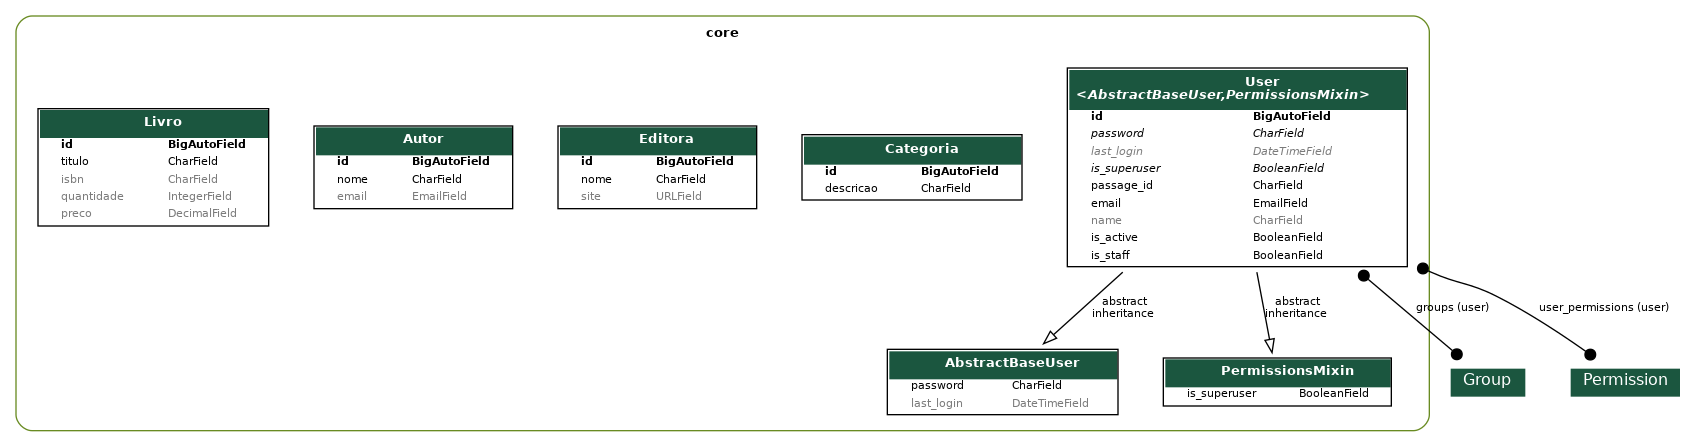
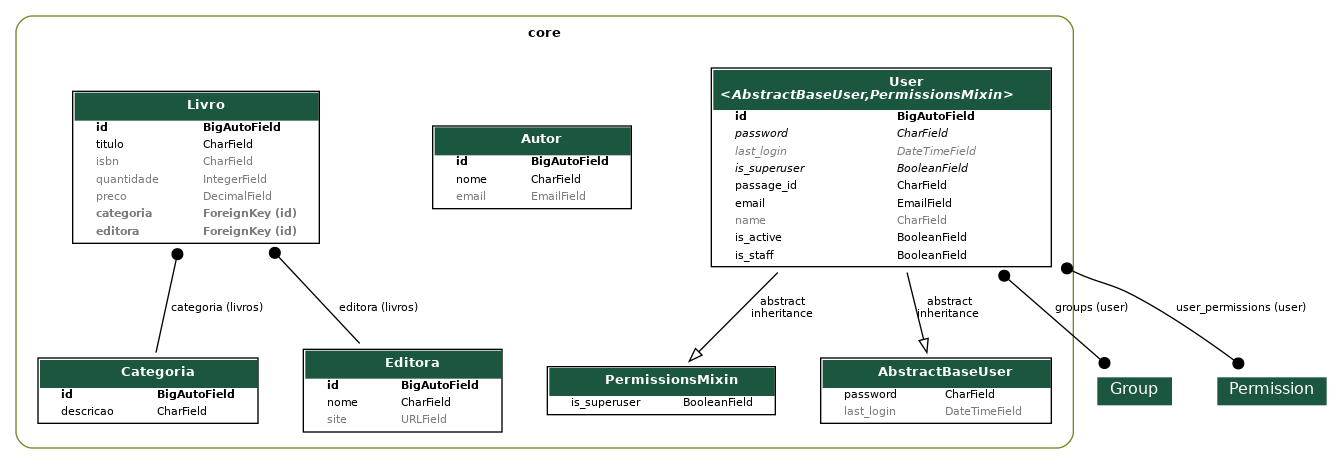
Adiciona relacionamento de Livro com Categoria e Editora

diff --git a/core/migrations/0011_livro_categoria_livro_editora.py b/core/migrations/0011_livro_categoria_livro_editora.py
@@ -1,0 +1,36 @@
+# Generated by Django 5.1.1 on 2024-10-21 13:01
+
+import django.db.models.deletion
+from django.db import migrations, models
+
+
+class Migration(migrations.Migration):
+
+    dependencies = [
+        ("core", "0010_livro"),
+    ]
+
+    operations = [
+        migrations.AddField(
+            model_name="livro",
+            name="categoria",
+            field=models.ForeignKey(
+                blank=True,
+                null=True,
+                on_delete=django.db.models.deletion.PROTECT,
+                related_name="livros",
+                to="core.categoria",
+            ),
+        ),
+        migrations.AddField(
+            model_name="livro",
+            name="editora",
+            field=models.ForeignKey(
+                blank=True,
+                null=True,
+                on_delete=django.db.models.deletion.PROTECT,
+                related_name="livros",
+                to="core.editora",
+            ),
+        ),
+    ]

diff --git a/core/models/livro.py b/core/models/livro.py
@@ -1,10 +1,18 @@
 from django.db import models
+from .categoria import Categoria
+from .editora import Editora
 
 class Livro(models.Model):
     titulo = models.CharField(max_length=255)
     isbn = models.CharField(max_length=32, null=True, blank=True)
     quantidade = models.IntegerField(default=0, null=True, blank=True)
     preco = models.DecimalField(max_digits=7, decimal_places=2, default=0, null=True, blank=True)
+    categoria = models.ForeignKey(
+        Categoria, on_delete=models.PROTECT, related_name="livros", null=True, blank=True
+    )
+    editora = models.ForeignKey(
+        Editora, on_delete=models.PROTECT, related_name="livros", null=True, blank=True
+    )
 
     def __str__(self):
         return f"({self.id}) {self.titulo} ({self.quantidade})"
